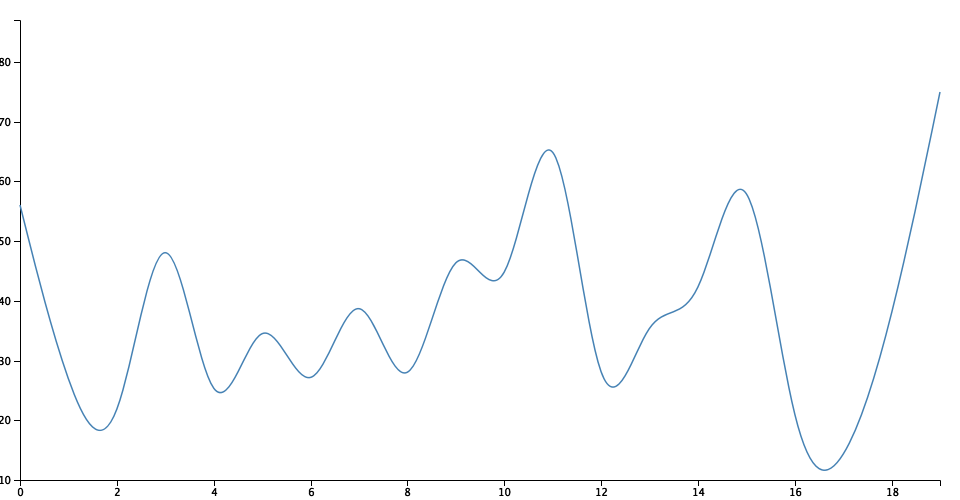
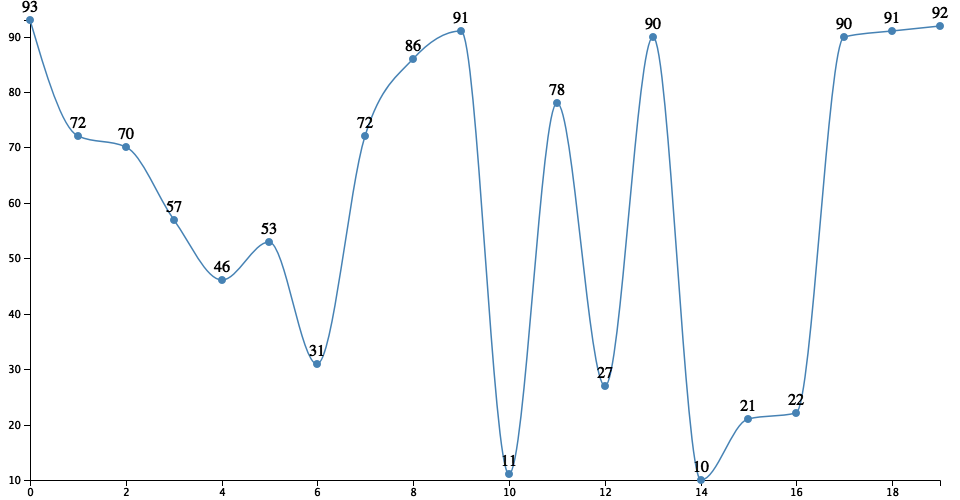
feat: update curve

diff --git a/example/output.html b/example/output.html
@@ -1,5 +1,5 @@
 <html><head></head><body><div id="container">
       <h2>Line Chart</h2>
-      <div id="chart"><svg xmlns="http://www.w3.org/2000/svg" width="960" height="500"><g transform="translate(20, 20)"><g><g transform="translate(0, 460)" fill="none" font-size="10" font-family="sans-serif" text-anchor="middle"><path class="domain" stroke="#000" d="M0.5000,6V0.5000H920.5000V6"></path><g class="tick" opacity="1" transform="translate(0,0)"><line stroke="#000" y2="6" x1="0.5" x2="0.5"></line><text fill="#000" y="9" x="0.5" dy="0.71em">0</text></g><g class="tick" opacity="1" transform="translate(97,0)"><line stroke="#000" y2="6" x1="0.5" x2="0.5"></line><text fill="#000" y="9" x="0.5" dy="0.71em">2</text></g><g class="tick" opacity="1" transform="translate(194,0)"><line stroke="#000" y2="6" x1="0.5" x2="0.5"></line><text fill="#000" y="9" x="0.5" dy="0.71em">4</text></g><g class="tick" opacity="1" transform="translate(291,0)"><line stroke="#000" y2="6" x1="0.5" x2="0.5"></line><text fill="#000" y="9" x="0.5" dy="0.71em">6</text></g><g class="tick" opacity="1" transform="translate(387,0)"><line stroke="#000" y2="6" x1="0.5" x2="0.5"></line><text fill="#000" y="9" x="0.5" dy="0.71em">8</text></g><g class="tick" opacity="1" transform="translate(484,0)"><line stroke="#000" y2="6" x1="0.5" x2="0.5"></line><text fill="#000" y="9" x="0.5" dy="0.71em">10</text></g><g class="tick" opacity="1" transform="translate(581,0)"><line stroke="#000" y2="6" x1="0.5" x2="0.5"></line><text fill="#000" y="9" x="0.5" dy="0.71em">12</text></g><g class="tick" opacity="1" transform="translate(678,0)"><line stroke="#000" y2="6" x1="0.5" x2="0.5"></line><text fill="#000" y="9" x="0.5" dy="0.71em">14</text></g><g class="tick" opacity="1" transform="translate(775,0)"><line stroke="#000" y2="6" x1="0.5" x2="0.5"></line><text fill="#000" y="9" x="0.5" dy="0.71em">16</text></g><g class="tick" opacity="1" transform="translate(872,0)"><line stroke="#000" y2="6" x1="0.5" x2="0.5"></line><text fill="#000" y="9" x="0.5" dy="0.71em">18</text></g></g><g fill="none" font-size="10" font-family="sans-serif" text-anchor="end"><path class="domain" stroke="#000" d="M-6,460.5000H0.5000V0.5000H-6"></path><g class="tick" opacity="1" transform="translate(0,460)"><line stroke="#000" x2="-6" y1="0.5" y2="0.5"></line><text fill="#000" x="-9" y="0.5" dy="0.32em">10</text></g><g class="tick" opacity="1" transform="translate(0,400)"><line stroke="#000" x2="-6" y1="0.5" y2="0.5"></line><text fill="#000" x="-9" y="0.5" dy="0.32em">20</text></g><g class="tick" opacity="1" transform="translate(0,341)"><line stroke="#000" x2="-6" y1="0.5" y2="0.5"></line><text fill="#000" x="-9" y="0.5" dy="0.32em">30</text></g><g class="tick" opacity="1" transform="translate(0,281)"><line stroke="#000" x2="-6" y1="0.5" y2="0.5"></line><text fill="#000" x="-9" y="0.5" dy="0.32em">40</text></g><g class="tick" opacity="1" transform="translate(0,221)"><line stroke="#000" x2="-6" y1="0.5" y2="0.5"></line><text fill="#000" x="-9" y="0.5" dy="0.32em">50</text></g><g class="tick" opacity="1" transform="translate(0,161)"><line stroke="#000" x2="-6" y1="0.5" y2="0.5"></line><text fill="#000" x="-9" y="0.5" dy="0.32em">60</text></g><g class="tick" opacity="1" transform="translate(0,102)"><line stroke="#000" x2="-6" y1="0.5" y2="0.5"></line><text fill="#000" x="-9" y="0.5" dy="0.32em">70</text></g><g class="tick" opacity="1" transform="translate(0,42)"><line stroke="#000" x2="-6" y1="0.5" y2="0.5"></line><text fill="#000" x="-9" y="0.5" dy="0.32em">80</text></g></g><path fill="none" stroke="steelblue" stroke-width="1.5" d="M0,185L8,216.8333C16,248.6667,32,312.3333,48.1667,358.1667C64.3333,404,80.6667,432,96.8333,389.1667C113,346.3333,129,232.6667,145.1667,232.6667C161.3333,232.6667,177.6667,346.3333,193.8333,368.3333C210,390.3333,226,320.6667,242.1667,313.6667C258.3333,306.6667,274.6667,362.3333,290.8333,357.3333C307,352.3333,323,286.6667,339,288.6667C355,290.6667,371,360.3333,387.1667,352.3333C403.3333,344.3333,419.6667,258.6667,435.8333,242.8333C452,227,468,281,484.1667,252.1667C500.3333,223.3333,516.6667,111.6667,532.8333,132.5000C549,153.3333,565,306.6667,581,351.5000C597,396.3333,613,332.6667,629.1667,308.8333C645.3333,285,661.6667,301,677.8333,267.1667C694,233.3333,710,149.6667,726.1667,173.5000C742.3333,197.3333,758.6667,328.6667,774.8333,394.3333C791,460,807,460,823.1667,434.1667C839.3333,408.3333,855.6667,356.6667,871.8333,292C888,227.3333,904,149.6667,912,110.8333L920,72"></path></g></g></svg></div>
+      <div id="chart"><svg xmlns="http://www.w3.org/2000/svg" width="960" height="500"><g transform="translate(30, 20)"><g><g transform="translate(0, 460)" fill="none" font-size="10" font-family="sans-serif" text-anchor="middle"><path class="domain" stroke="#000" d="M0.5000,6V0.5000H910.5000V6"></path><g class="tick" opacity="1" transform="translate(0,0)"><line stroke="#000" y2="6" x1="0.5" x2="0.5"></line><text fill="#000" y="9" x="0.5" dy="0.71em">0</text></g><g class="tick" opacity="1" transform="translate(96,0)"><line stroke="#000" y2="6" x1="0.5" x2="0.5"></line><text fill="#000" y="9" x="0.5" dy="0.71em">2</text></g><g class="tick" opacity="1" transform="translate(192,0)"><line stroke="#000" y2="6" x1="0.5" x2="0.5"></line><text fill="#000" y="9" x="0.5" dy="0.71em">4</text></g><g class="tick" opacity="1" transform="translate(287,0)"><line stroke="#000" y2="6" x1="0.5" x2="0.5"></line><text fill="#000" y="9" x="0.5" dy="0.71em">6</text></g><g class="tick" opacity="1" transform="translate(383,0)"><line stroke="#000" y2="6" x1="0.5" x2="0.5"></line><text fill="#000" y="9" x="0.5" dy="0.71em">8</text></g><g class="tick" opacity="1" transform="translate(479,0)"><line stroke="#000" y2="6" x1="0.5" x2="0.5"></line><text fill="#000" y="9" x="0.5" dy="0.71em">10</text></g><g class="tick" opacity="1" transform="translate(575,0)"><line stroke="#000" y2="6" x1="0.5" x2="0.5"></line><text fill="#000" y="9" x="0.5" dy="0.71em">12</text></g><g class="tick" opacity="1" transform="translate(671,0)"><line stroke="#000" y2="6" x1="0.5" x2="0.5"></line><text fill="#000" y="9" x="0.5" dy="0.71em">14</text></g><g class="tick" opacity="1" transform="translate(766,0)"><line stroke="#000" y2="6" x1="0.5" x2="0.5"></line><text fill="#000" y="9" x="0.5" dy="0.71em">16</text></g><g class="tick" opacity="1" transform="translate(862,0)"><line stroke="#000" y2="6" x1="0.5" x2="0.5"></line><text fill="#000" y="9" x="0.5" dy="0.71em">18</text></g></g><g fill="none" font-size="10" font-family="sans-serif" text-anchor="end"><path class="domain" stroke="#000" d="M-6,460.5000H0.5000V0.5000H-6"></path><g class="tick" opacity="1" transform="translate(0,460)"><line stroke="#000" x2="-6" y1="0.5" y2="0.5"></line><text fill="#000" x="-9" y="0.5" dy="0.32em">10</text></g><g class="tick" opacity="1" transform="translate(0,405)"><line stroke="#000" x2="-6" y1="0.5" y2="0.5"></line><text fill="#000" x="-9" y="0.5" dy="0.32em">20</text></g><g class="tick" opacity="1" transform="translate(0,349)"><line stroke="#000" x2="-6" y1="0.5" y2="0.5"></line><text fill="#000" x="-9" y="0.5" dy="0.32em">30</text></g><g class="tick" opacity="1" transform="translate(0,294)"><line stroke="#000" x2="-6" y1="0.5" y2="0.5"></line><text fill="#000" x="-9" y="0.5" dy="0.32em">40</text></g><g class="tick" opacity="1" transform="translate(0,238)"><line stroke="#000" x2="-6" y1="0.5" y2="0.5"></line><text fill="#000" x="-9" y="0.5" dy="0.32em">50</text></g><g class="tick" opacity="1" transform="translate(0,183)"><line stroke="#000" x2="-6" y1="0.5" y2="0.5"></line><text fill="#000" x="-9" y="0.5" dy="0.32em">60</text></g><g class="tick" opacity="1" transform="translate(0,127)"><line stroke="#000" x2="-6" y1="0.5" y2="0.5"></line><text fill="#000" x="-9" y="0.5" dy="0.32em">70</text></g><g class="tick" opacity="1" transform="translate(0,72)"><line stroke="#000" x2="-6" y1="0.5" y2="0.5"></line><text fill="#000" x="-9" y="0.5" dy="0.32em">80</text></g><g class="tick" opacity="1" transform="translate(0,17)"><line stroke="#000" x2="-6" y1="0.5" y2="0.5"></line><text fill="#000" x="-9" y="0.5" dy="0.32em">90</text></g></g><path fill="none" stroke="steelblue" stroke-width="1.5" d="M0,0C16,54.3333,32,108.6667,48,116C64,123.3333,80,119.6667,96,127C112,134.3333,128,177.8333,144,200C160,222.1667,176,260,192,260C207.6667,260,223.3333,222,239,222C255,222,271,344,287,344C303,344,319,166.8333,335,116C351,65.1667,367,56.5000,383,39C399,21.5000,415,11,431,11C447,11,463,454,479,454C495,454,511,83,527,83C543,83,559,366,575,366C591,366,607,17,623,17C639,17,655,460,671,460C686.6667,460,702.3333,402.9167,718,399C734,395,750,397,766,393C782,389,798,21,814,17C830,13,846,12.8333,862,11C878,9.1667,894,7.5833,910,6"></path><g><circle class="dot" fill="steelblue" r="4" cx="0" cy="0"></circle><circle class="dot" fill="steelblue" r="4" cx="48" cy="116"></circle><circle class="dot" fill="steelblue" r="4" cx="96" cy="127"></circle><circle class="dot" fill="steelblue" r="4" cx="144" cy="200"></circle><circle class="dot" fill="steelblue" r="4" cx="192" cy="260"></circle><circle class="dot" fill="steelblue" r="4" cx="239" cy="222"></circle><circle class="dot" fill="steelblue" r="4" cx="287" cy="344"></circle><circle class="dot" fill="steelblue" r="4" cx="335" cy="116"></circle><circle class="dot" fill="steelblue" r="4" cx="383" cy="39"></circle><circle class="dot" fill="steelblue" r="4" cx="431" cy="11"></circle><circle class="dot" fill="steelblue" r="4" cx="479" cy="454"></circle><circle class="dot" fill="steelblue" r="4" cx="527" cy="83"></circle><circle class="dot" fill="steelblue" r="4" cx="575" cy="366"></circle><circle class="dot" fill="steelblue" r="4" cx="623" cy="17"></circle><circle class="dot" fill="steelblue" r="4" cx="671" cy="460"></circle><circle class="dot" fill="steelblue" r="4" cx="718" cy="399"></circle><circle class="dot" fill="steelblue" r="4" cx="766" cy="393"></circle><circle class="dot" fill="steelblue" r="4" cx="814" cy="17"></circle><circle class="dot" fill="steelblue" r="4" cx="862" cy="11"></circle><circle class="dot" fill="steelblue" r="4" cx="910" cy="6"></circle></g><g><text class="dot-value-label" text-anchor="middle" x="0" y="0" dy="-0.5em" fill="currentColor">93</text><text class="dot-value-label" text-anchor="middle" x="48" y="116" dy="-0.5em" fill="currentColor">72</text><text class="dot-value-label" text-anchor="middle" x="96" y="127" dy="-0.5em" fill="currentColor">70</text><text class="dot-value-label" text-anchor="middle" x="144" y="200" dy="-0.5em" fill="currentColor">57</text><text class="dot-value-label" text-anchor="middle" x="192" y="260" dy="-0.5em" fill="currentColor">46</text><text class="dot-value-label" text-anchor="middle" x="239" y="222" dy="-0.5em" fill="currentColor">53</text><text class="dot-value-label" text-anchor="middle" x="287" y="344" dy="-0.5em" fill="currentColor">31</text><text class="dot-value-label" text-anchor="middle" x="335" y="116" dy="-0.5em" fill="currentColor">72</text><text class="dot-value-label" text-anchor="middle" x="383" y="39" dy="-0.5em" fill="currentColor">86</text><text class="dot-value-label" text-anchor="middle" x="431" y="11" dy="-0.5em" fill="currentColor">91</text><text class="dot-value-label" text-anchor="middle" x="479" y="454" dy="-0.5em" fill="currentColor">11</text><text class="dot-value-label" text-anchor="middle" x="527" y="83" dy="-0.5em" fill="currentColor">78</text><text class="dot-value-label" text-anchor="middle" x="575" y="366" dy="-0.5em" fill="currentColor">27</text><text class="dot-value-label" text-anchor="middle" x="623" y="17" dy="-0.5em" fill="currentColor">90</text><text class="dot-value-label" text-anchor="middle" x="671" y="460" dy="-0.5em" fill="currentColor">10</text><text class="dot-value-label" text-anchor="middle" x="718" y="399" dy="-0.5em" fill="currentColor">21</text><text class="dot-value-label" text-anchor="middle" x="766" y="393" dy="-0.5em" fill="currentColor">22</text><text class="dot-value-label" text-anchor="middle" x="814" y="17" dy="-0.5em" fill="currentColor">90</text><text class="dot-value-label" text-anchor="middle" x="862" y="11" dy="-0.5em" fill="currentColor">91</text><text class="dot-value-label" text-anchor="middle" x="910" y="6" dy="-0.5em" fill="currentColor">92</text></g></g></g></svg></div>
     </div>
   </body></html>

diff --git a/src/index.js b/src/index.js
@@ -26,6 +26,7 @@ const { addStyle } = require('./utils')
  * @param {number} lineWidth
  * @param {string} lineColor
  * @param {boolean} isCurve Whether the line chart is curve
+ * @param {boolean} curveType
  * @param {boolean} export Whether to export to a PNG image
  * @returns {}
  */
@@ -53,6 +54,7 @@ function line ({
   lineWidth: _lineWidth = 1.5,
   lineColor: _lineColor = 'steelblue',
   isCurve: _isCurve = true,
+  curveType: _curveType = 'curveMonotoneX',
   export: _export = false
 } = {}) {
   let _d3 // Instance of d3
@@ -105,7 +107,7 @@ function line ({
         .x(d => xScale(d.key))
         .y(d => yScale(d.value))
 
-  if (_isCurve) lineChart.curve(_d3.curveBasis)
+  if (_isCurve) lineChart.curve(_d3[_curveType])
 
   xScale.domain(_d3.extent(data, d => d.key))
   yScale.domain(_d3.extent(data, d => d.value))

diff --git a/dist/index.js b/dist/index.js
@@ -44,6 +44,8 @@ function line() {
       _lineColor = _ref$lineColor === undefined ? 'steelblue' : _ref$lineColor,
       _ref$isCurve = _ref.isCurve,
       _isCurve = _ref$isCurve === undefined ? true : _ref$isCurve,
+      _ref$curveType = _ref.curveType,
+      _curveType = _ref$curveType === undefined ? 'curveMonotoneX' : _ref$curveType,
       _ref$export = _ref.export,
       _export = _ref$export === undefined ? false : _ref$export;
 
@@ -94,7 +96,7 @@ function line() {
     return yScale(d.value);
   });
 
-  if (_isCurve) lineChart.curve(_d3.curveBasis);
+  if (_isCurve) lineChart.curve(_d3[_curveType]);
 
   xScale.domain(_d3.extent(data, function (d) {
     return d.key;
